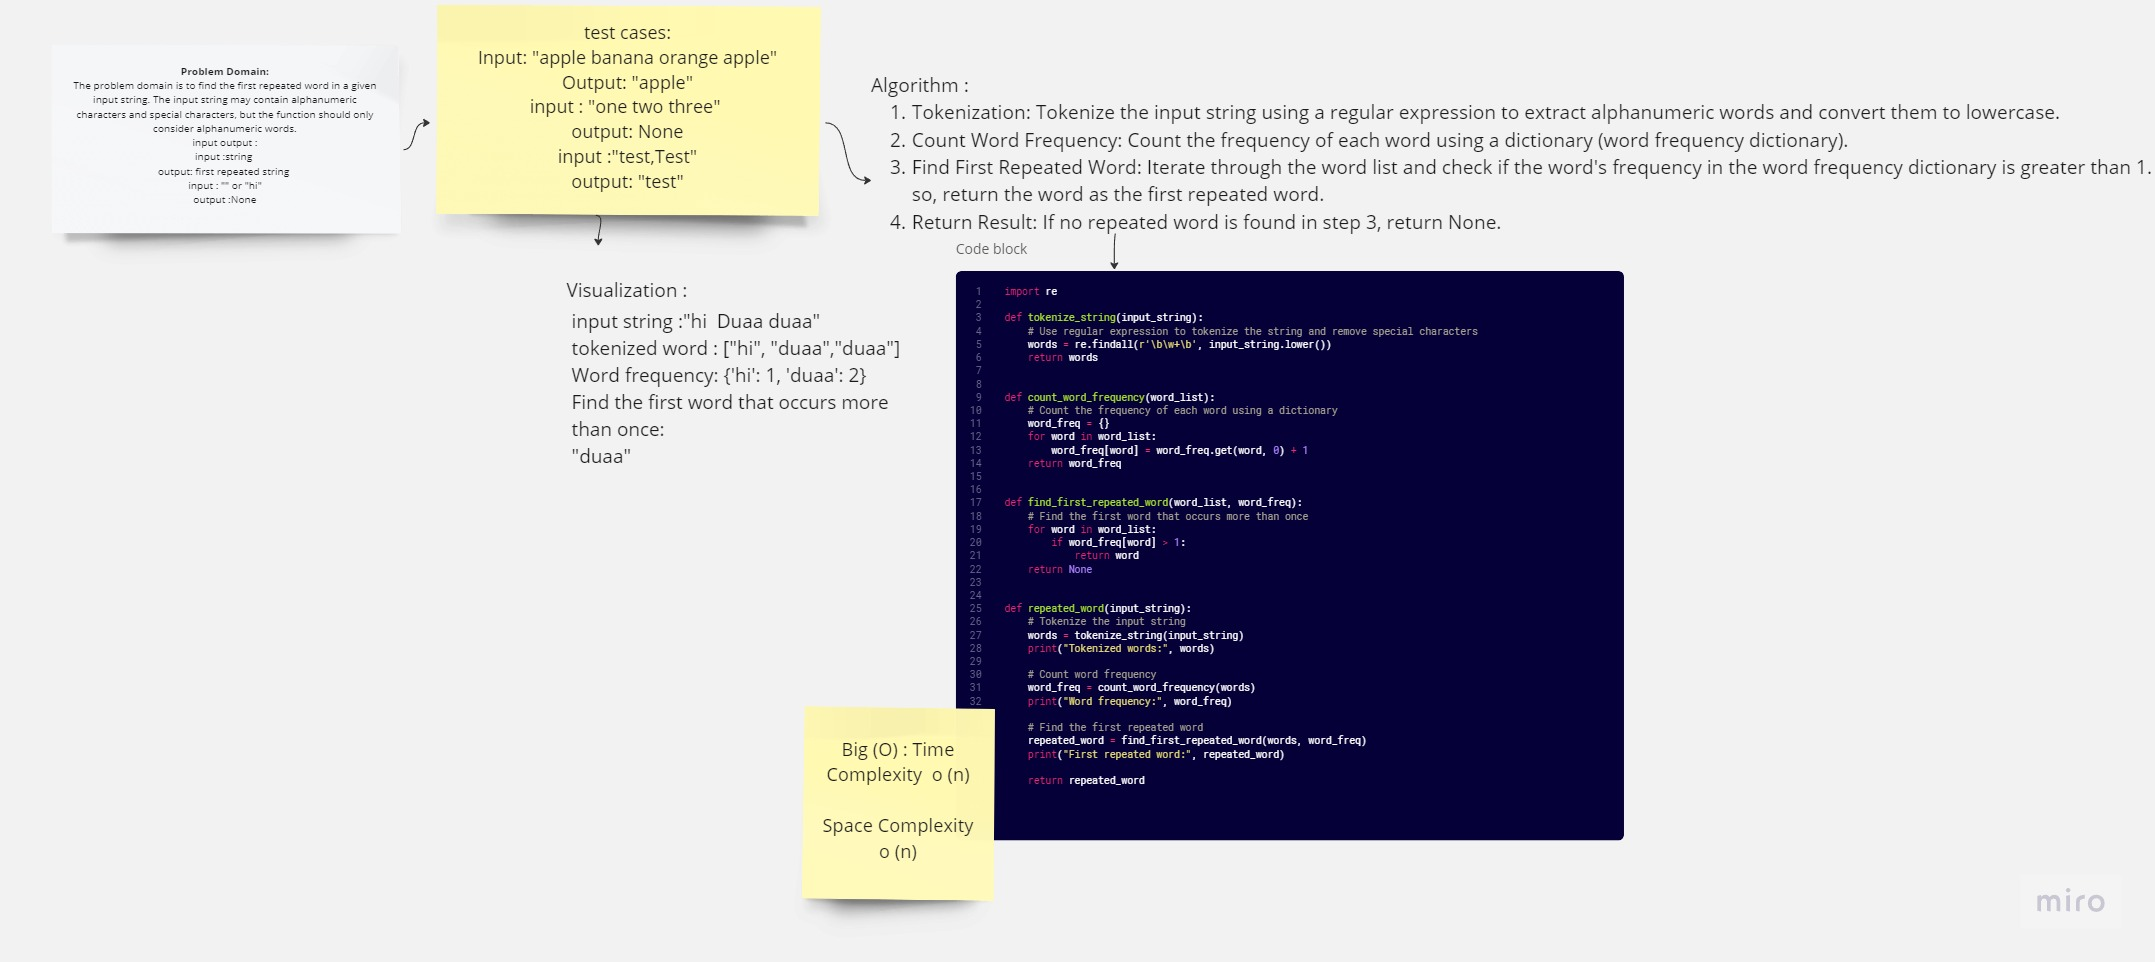
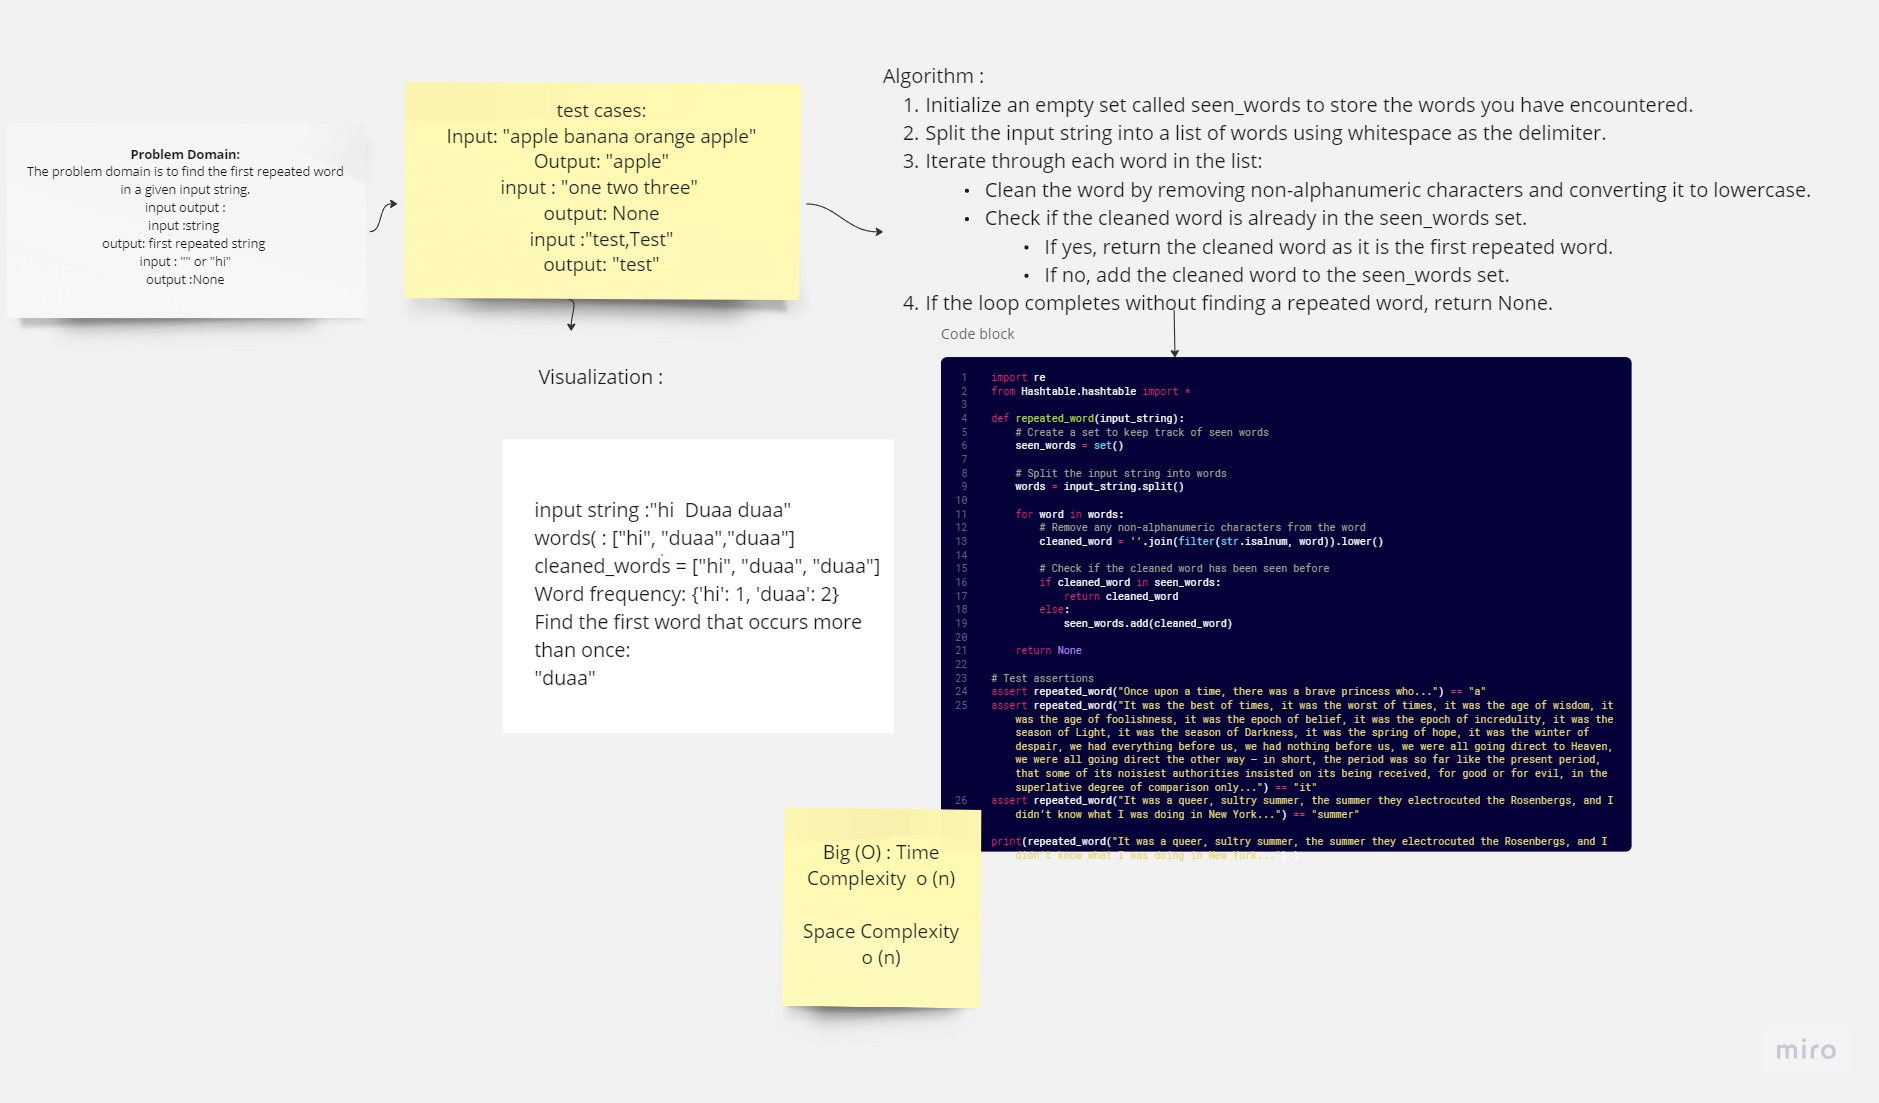
hashing

Changed region(s): [[0.0, 0.0, 0.9878, 0.9667], [0.926, 0.9356, 0.9878, 0.9667]]

diff --git a/hashmap_repeated_word/repeated_word.py b/hashmap_repeated_word/repeated_word.py
@@ -1,40 +1,28 @@
 import re
-
-def tokenize_string(input_string):
-    # Use regular expression to tokenize the string and remove special characters
-    words = re.findall(r'\b\w+\b', input_string.lower())
-    return words
-
-
-def count_word_frequency(word_list):
-    # Count the frequency of each word using a dictionary
-    word_freq = {}
-    for word in word_list:
-        word_freq[word] = word_freq.get(word, 0) + 1
-    return word_freq
-
-
-def find_first_repeated_word(word_list, word_freq):
-    # Find the first word that occurs more than once
-    for word in word_list:
-        if word_freq[word] > 1:
-            return word
-    return None
-
+from Hashtable.hashtable import *
 
 def repeated_word(input_string):
-    # Tokenize the input string
-    words = tokenize_string(input_string)
-    print("Tokenized words:", words)
+    # Create a set to keep track of seen words
+    seen_words = set()
+    
+    # Split the input string into words
+    words = input_string.split()
 
-    # Count word frequency
-    word_freq = count_word_frequency(words)
-    print("Word frequency:", word_freq)
+    for word in words:
+        # Remove any non-alphanumeric characters from the word
+        cleaned_word = ''.join(filter(str.isalnum, word)).lower()
+        
+        # Check if the cleaned word has been seen before
+        if cleaned_word in seen_words:
+            return cleaned_word
+        else:
+            seen_words.add(cleaned_word)
+    
+    return None
 
-    # Find the first repeated word
-    repeated_word = find_first_repeated_word(words, word_freq)
-    print("First repeated word:", repeated_word)
+# Test assertions
+assert repeated_word("Once upon a time, there was a brave princess who...") == "a"
+assert repeated_word("It was the best of times, it was the worst of times, it was the age of wisdom, it was the age of foolishness, it was the epoch of belief, it was the epoch of incredulity, it was the season of Light, it was the season of Darkness, it was the spring of hope, it was the winter of despair, we had everything before us, we had nothing before us, we were all going direct to Heaven, we were all going direct the other way – in short, the period was so far like the present period, that some of its noisiest authorities insisted on its being received, for good or for evil, in the superlative degree of comparison only...") == "it"
+assert repeated_word("It was a queer, sultry summer, the summer they electrocuted the Rosenbergs, and I didn’t know what I was doing in New York...") == "summer"
 
-    return repeated_word
-
-
+print(repeated_word("It was a queer, sultry summer, the summer they electrocuted the Rosenbergs, and I didn’t know what I was doing in New York...") )

diff --git a/hashmap_repeated_word/Hashtable/hashtable.py b/hashmap_repeated_word/Hashtable/hashtable.py
@@ -1,0 +1,51 @@
+from functools import reduce
+from operator import add
+
+class Node:
+    def __init__(self, value):
+        self.next = None
+        self.value = value
+
+class LinkedList:
+    def __init__(self):
+        self.head = None
+
+    def insert(self, value):
+        new_node = Node(value)
+        new_node.next = self.head
+        self.head = new_node
+
+class HashTable:
+    def __init__(self, size=1024):
+        self.__size = size
+        self.__buckets = [None] * size
+        self.__keys_set = set()
+
+    def __hash(self, key):
+        return reduce(add, [ord(str(char)) for char in key]) * 283 % self.__size
+
+    def set(self, key, value):
+        index = self.__hash(key)
+        if self.__buckets[index] is None:
+            ll = LinkedList()
+            self.__buckets[index] = ll
+
+        self.__buckets[index].insert([key, value])
+        self.__keys_set.add(key)
+
+    def get(self, key):
+        index = self.__hash(key)
+        bucket = self.__buckets[index]
+        if bucket is not None:
+            curr = bucket.head
+            while curr:
+                if curr.value[0] == key:
+                    return curr.value[1]
+                curr = curr.next
+        return None
+
+    def has(self, key):
+        return key in self.__keys_set
+
+    def keys(self):
+        return list(self.__keys_set)

diff --git a/hashmap_repeated_word/Hashtable/tests/test_hash.py b/hashmap_repeated_word/Hashtable/tests/test_hash.py
@@ -1,0 +1,35 @@
+import pytest
+from hashtable import HashTable
+
+def test_set():
+    hashtable = HashTable()
+    hashtable.set('key1', 'value1')
+    assert hashtable.get('key1') == 'value1'
+def test_retrieve():
+    hashtable = HashTable()
+    hashtable.set('key1', 'value1')
+    assert hashtable.get('key1') == 'value1'
+
+def test_non_existing_key():
+    hashtable = HashTable()
+    assert hashtable.get('non_existing_key') is None
+def test_keys():
+    hashtable = HashTable()
+    hashtable.set('key1', 'value1')
+    hashtable.set('key2', 'value2')
+    hashtable.set('key3', 'value3')
+    assert set(hashtable.keys()) == {'key1', 'key2', 'key3'}
+
+def test_bucket_collision():
+    hashtable = HashTable(size=2)  # Small size to force collision
+    hashtable.set('key1', 'value1')
+    hashtable.set('key2', 'value2')
+    assert hashtable.get('key1') == 'value1'
+    assert hashtable.get('key2') == 'value2'
+def test_hashing():
+    hashtable = HashTable(size=100)  # Large size to avoid collisions
+    key = 'test_key'
+    hashed_index = hashtable._HashTable__hash(key)
+    assert 0 <= hashed_index < 100
+
+

diff --git a/hashmap_repeated_word/tests/test_repeated.py b/hashmap_repeated_word/tests/test_repeated.py
@@ -1,17 +1,25 @@
-from repeated_word import *
+from repeated_word import repeated_word
+from Hashtable.hashtable import *
 import pytest
+
 def test_repeated_word():
-    
+   
     input_string1 = "Duaa Z Melhem , Duaa ."
     assert repeated_word(input_string1) == "duaa"
 
-   
+    
+
     input_string3 = "This is Duaa Melhem , my major is computer Science "
     assert repeated_word(input_string3) == "is"
 
+    # Edge cases
+    assert repeated_word("") is None  # Empty string
+    assert repeated_word("word") is None  # Single word
+    
+ 
+    input_string4 = "This is a Test tESt"
+    assert repeated_word(input_string4) == "test"  
 
-
-
-
-
+    input_string5 = "Case case Case"
+    assert repeated_word(input_string5) == "case"  
 test_repeated_word()

diff --git a/hashmap_repeated_word/Hashtable/hashtable.md b/hashmap_repeated_word/Hashtable/hashtable.md
@@ -1,0 +1,11 @@
+# Code Challenge 30 Hash Table
+
+## approach and efficiency : 
+HashTable class provides O(1) average time complexity for individual operations under the assumption of a good hash function and a reasonable load factor. However, it can degrade to O(N) in the worst-case scenario with many collisions. The space complexity mainly depends on the number of unique key-value pairs in the hashtable and is o(n).
+
+
+
+
+
+
+## [link to my code](hashtable.py)
